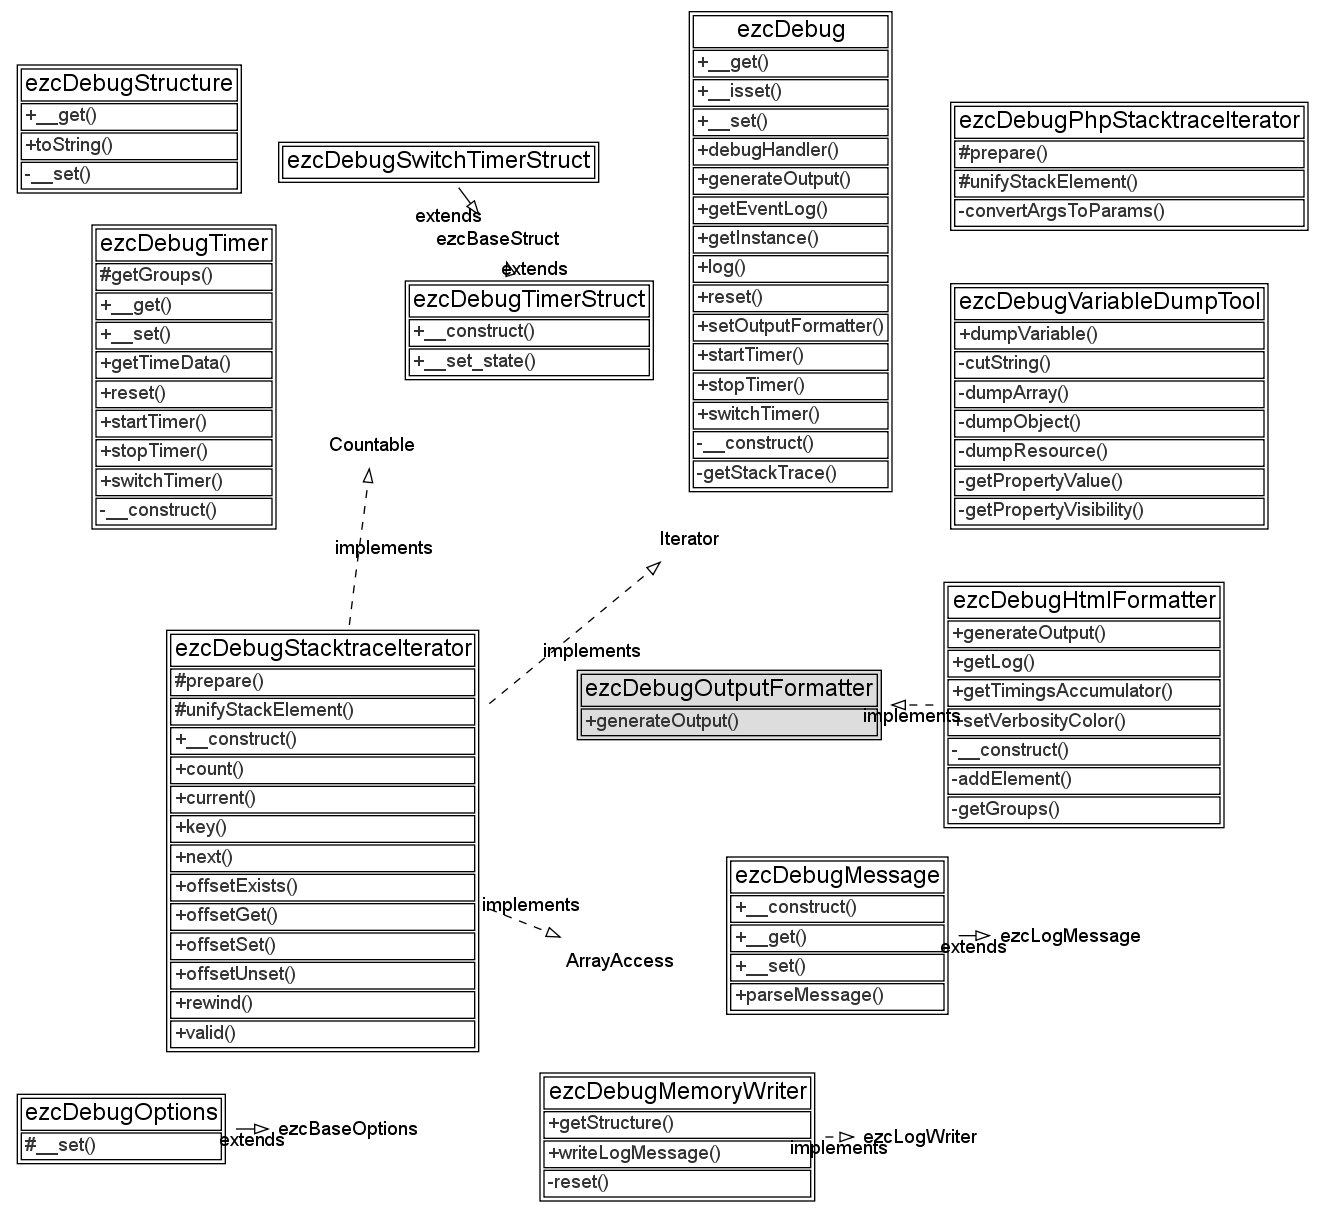
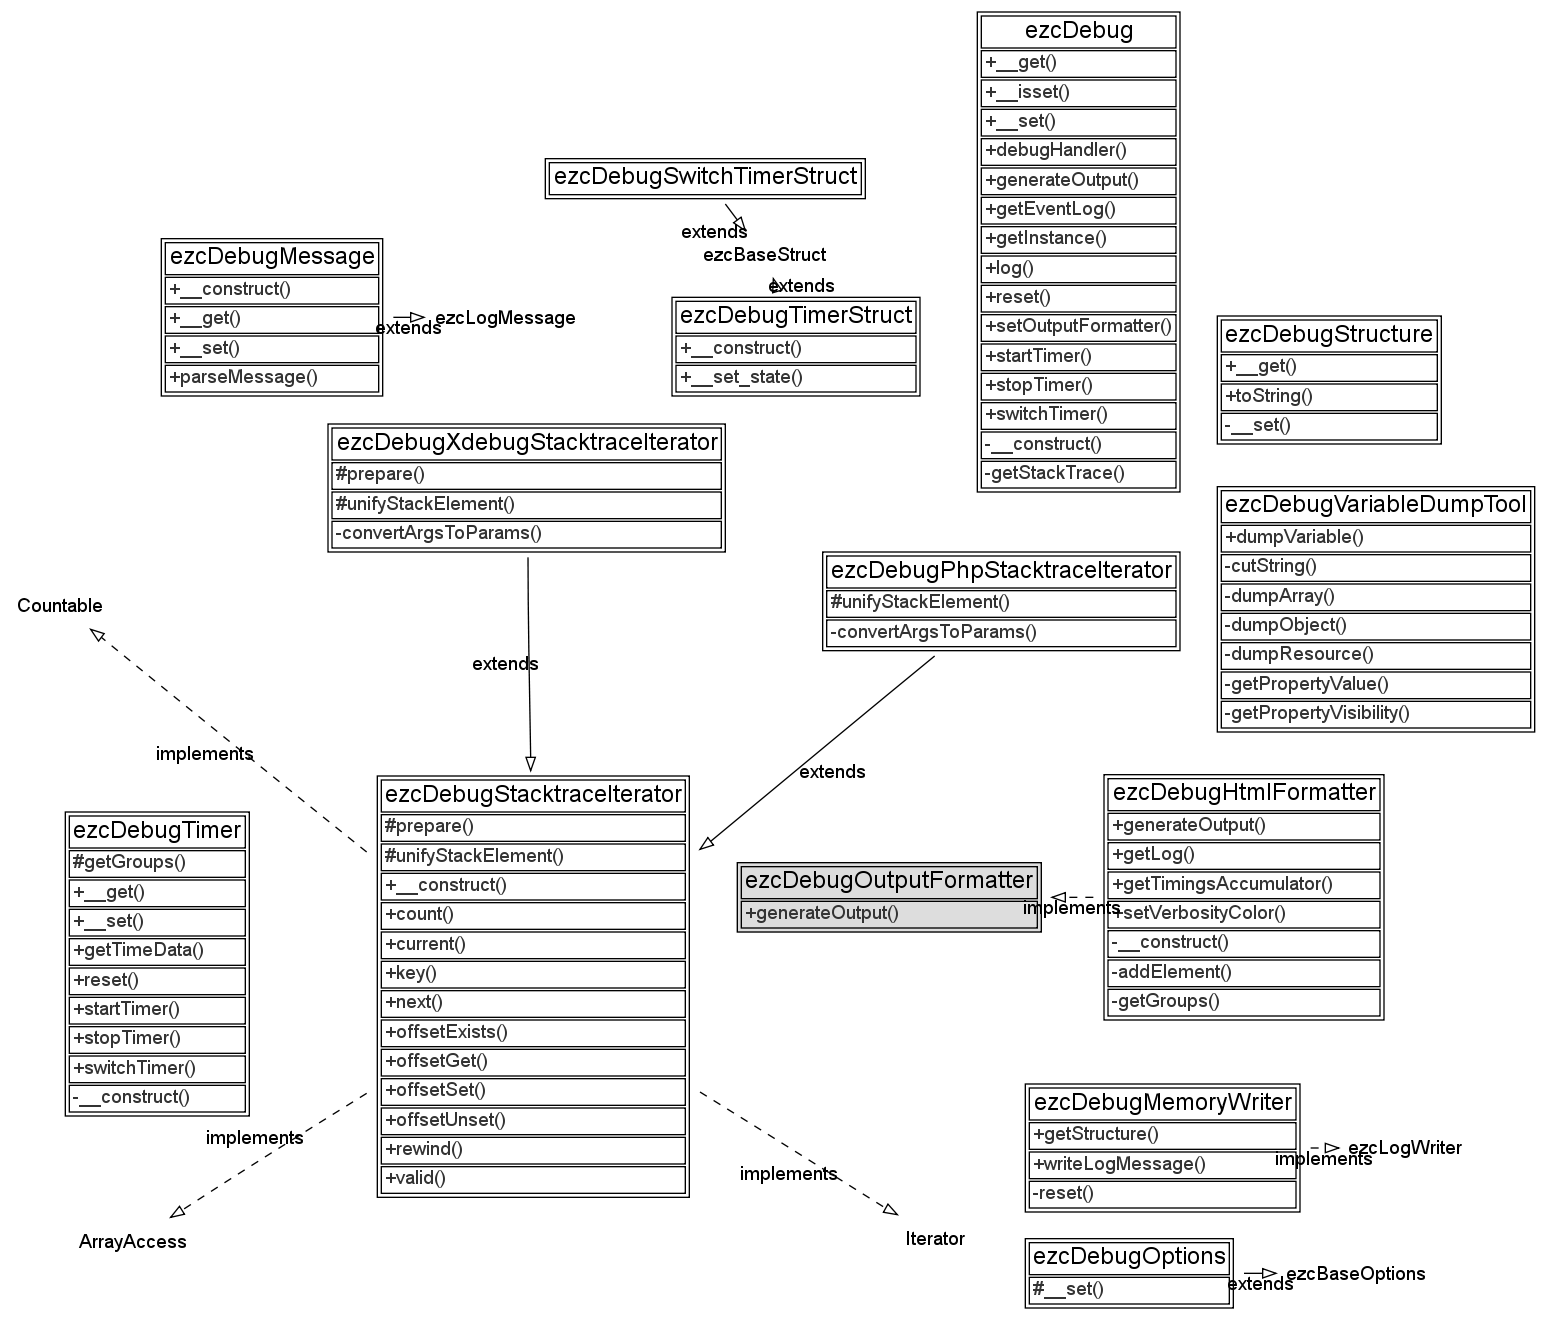
- Added ezcDebugXdebugStacktraceIterator.

Changed region(s): [[0.0, 0.0, 0.9902, 1.0], [0.0309, 0.4575, 0.0619, 0.488]]

diff --git a/src/stacktrace/xdebug_iterator.php b/src/stacktrace/xdebug_iterator.php
@@ -1,0 +1,101 @@
+<?php
+/**
+ * File containing the ezcDebugXdebugStacktraceIterator class.
+ *
+ * @package Debug
+ * @version //autogentag//
+ * @copyright Copyright (C) 2005-2008 eZ systems as. All rights reserved.
+ * @license http://ez.no/licenses/new_bsd New BSD License
+ */
+
+/**
+ * Iterator class to wrap around debug_backtrace() stack traces.
+ *
+ * This iterator class receives a stack trace generated by debug_backtrace()
+ * and unifies it as described in the {@link ezcDebugStacktraceIterator}
+ * interface.
+ * 
+ * @package Debug
+ * @version //autogen//
+ * @copyright Copyright (C) 2005-2007 eZ systems as. All rights reserved.
+ * @license http://ez.no/licenses/new_bsd New BSD License
+ */
+class ezcDebugXdebugStacktraceIterator extends ezcDebugStacktraceIterator
+{
+    /**
+     * Prepares the stack trace for being stored in the iterator instance.
+     *
+     * This method reverses the received stacktrace, which was created by the
+     * Xdebug ({@link http://xdebug.org}) debugging extension for PHP, to unify
+     * the stacktrace with the one created by {@link
+     * ezcDebugPhpStacktraceIterator}.
+     * 
+     * @param mixed $stackTrace 
+     * @return array The stack trace to store.
+     */
+    protected function prepare( $stackTrace, $removeElements )
+    {
+        return parent::prepare(
+            array_reverse( $stackTrace ),
+            $removeElements
+        );
+    }
+
+    /**
+     * Unifies a stack element for being returned to the formatter.
+     *
+     * This method ensures that an element of the stack trace conforms to the
+     * format expected by a {@link ezcDebugOutputFormatter}. The format is
+     * defined as follows:
+     *
+     * <code>
+     * array(
+     *      'file'      => '<fullpathtofile>',
+     *      'line'      => <lineno>,
+     *      'function'  => '<functionname>',
+     *      'class'     => '<classname>',
+     *      'params'    => array(
+     *          <param_no> => '<paramvalueinfo>',
+     *          <param_no> => '<paramvalueinfo>',
+     *          <param_no> => '<paramvalueinfo>',
+     *          ...
+     *      )
+     * )
+     * </code>
+     * 
+     * @param mixed $stackElement 
+     * @return array As described above.
+     */
+    protected function unifyStackElement( $stackElement )
+    {
+        $newParams = array();
+        foreach ( $stackElement['params'] as $param )
+        {
+            $newParams[] = $param;
+        }
+        $stackElement['params'] = $newParams;
+        
+        return $stackElement;
+    }
+
+    /**
+     * Returns the arguments of a stack element as string dumps.
+     *
+     * Returns an array corresponding to the 'params' key of a unified stack
+     * element, created from the 'args' ($args) element from an unified one.
+     * 
+     * @param array $args 
+     * @return array
+     */
+    private function convertArgsToParams( $args )
+    {
+        $params = array();
+        foreach ( $args as $arg )
+        {
+            $params[] = ezcDebugVariableDumpTool::dumpVariable( $arg );
+        }
+        return $params;
+    }
+}
+
+?>

diff --git a/src/debug_autoload.php b/src/debug_autoload.php
@@ -10,19 +10,20 @@
  */
 
 return array(
-    'ezcDebugException'             => 'Debug/exceptions/exception.php',
-    'ezcDebugOutputFormatter'       => 'Debug/interfaces/formatter.php',
-    'ezcDebug'                      => 'Debug/debug.php',
-    'ezcDebugHtmlFormatter'         => 'Debug/formatters/html_formatter.php',
-    'ezcDebugMemoryWriter'          => 'Debug/writers/memory_writer.php',
-    'ezcDebugMessage'               => 'Debug/debug_message.php',
-    'ezcDebugOptions'               => 'Debug/options.php',
-    'ezcDebugPhpStacktraceIterator' => 'Debug/stacktrace/php_iterator.php',
-    'ezcDebugStacktraceIterator'    => 'Debug/interfaces/stacktrace_iterator.php',
-    'ezcDebugStructure'             => 'Debug/structs/debug_structure.php',
-    'ezcDebugSwitchTimerStruct'     => 'Debug/structs/switch_timer.php',
-    'ezcDebugTimer'                 => 'Debug/debug_timer.php',
-    'ezcDebugTimerStruct'           => 'Debug/structs/timer.php',
-    'ezcDebugVariableDumpTool'      => 'Debug/tools/dump.php',
+    'ezcDebugException'                => 'Debug/exceptions/exception.php',
+    'ezcDebugOutputFormatter'          => 'Debug/interfaces/formatter.php',
+    'ezcDebugStacktraceIterator'       => 'Debug/interfaces/stacktrace_iterator.php',
+    'ezcDebug'                         => 'Debug/debug.php',
+    'ezcDebugHtmlFormatter'            => 'Debug/formatters/html_formatter.php',
+    'ezcDebugMemoryWriter'             => 'Debug/writers/memory_writer.php',
+    'ezcDebugMessage'                  => 'Debug/debug_message.php',
+    'ezcDebugOptions'                  => 'Debug/options.php',
+    'ezcDebugPhpStacktraceIterator'    => 'Debug/stacktrace/php_iterator.php',
+    'ezcDebugStructure'                => 'Debug/structs/debug_structure.php',
+    'ezcDebugSwitchTimerStruct'        => 'Debug/structs/switch_timer.php',
+    'ezcDebugTimer'                    => 'Debug/debug_timer.php',
+    'ezcDebugTimerStruct'              => 'Debug/structs/timer.php',
+    'ezcDebugVariableDumpTool'         => 'Debug/tools/dump.php',
+    'ezcDebugXdebugStacktraceIterator' => 'Debug/stacktrace/xdebug_iterator.php',
 );
 ?>

diff --git a/tests/data/xdebug_stacktrace_iterator_test__testSimpleTrace.php b/tests/data/xdebug_stacktrace_iterator_test__testSimpleTrace.php
@@ -1,0 +1,61 @@
+<?php
+
+return array (
+  0 => 
+  array (
+    'function' => 'getDeeperStackTrace',
+    'class' => 'ezcDebugXdebugStacktraceIteratorTest',
+    'file' => '/home/dotxp/dev/ez/ezcomponents/trunk/Debug/tests/xdebug_stacktrace_iterator_test.php',
+    'line' => 23,
+    'params' => 
+    array (
+      0 => '\'some string\'',
+      1 => 'array (0 => TRUE, 1 => 23, 2 => NULL)',
+    ),
+  ),
+  1 => 
+  array (
+    'function' => 'getStackTrace',
+    'class' => 'ezcDebugXdebugStacktraceIteratorTest',
+    'file' => '/home/dotxp/dev/ez/ezcomponents/trunk/Debug/tests/xdebug_stacktrace_iterator_test.php',
+    'line' => 48,
+    'params' => 
+    array (
+      0 => '\'some string\'',
+      1 => 'array (0 => TRUE, 1 => 23, 2 => NULL)',
+    ),
+  ),
+  2 => 
+  array (
+    'function' => 'testIterateTrace',
+    'class' => 'ezcDebugXdebugStacktraceIteratorTest',
+    'file' => '/home/dotxp/dev/ez/ezcomponents/trunk/Debug/tests/xdebug_stacktrace_iterator_test.php',
+    'line' => 0,
+    'params' => 
+    array (
+    ),
+  ),
+  3 => 
+  array (
+    'function' => 'invoke',
+    'class' => 'ReflectionMethod',
+    'file' => '/home/dotxp/dev/PHP/phpunit/branches/release/3.2/PHPUnit/Framework/TestCase.php',
+    'line' => 449,
+    'params' => 
+    array (
+      0 => 'class ezcDebugXdebugStacktraceIteratorTest { private $tempDir = NULL; protected $backupGlobals = TRUE; protected $data = array (); protected $dataName = \'\'; protected $expectedException = NULL; protected $expectedExceptionMessage = \'\'; protected $sharedFixture = NULL; protected $name = \'testIterateTrace\'; protected $exception = NULL; protected $iniSettings = array (); protected $locale = array (); protected $mockObjects = array () }',
+    ),
+  ),
+  4 => 
+  array (
+    'function' => 'runTest',
+    'class' => 'PHPUnit_Framework_TestCase',
+    'file' => '/home/dotxp/dev/PHP/phpunit/branches/release/3.2/PHPUnit/Framework/TestCase.php',
+    'line' => 376,
+    'params' => 
+    array (
+    ),
+  ),
+);
+
+?>

diff --git a/tests/xdebug_stacktrace_iterator_test.php b/tests/xdebug_stacktrace_iterator_test.php
@@ -1,0 +1,80 @@
+<?php
+/**
+ * @copyright Copyright (C) 2005-2008 eZ systems as. All rights reserved.
+ * @license http://ez.no/licenses/new_bsd New BSD License
+ * @version //autogentag//
+ * @filesource
+ * @package Debug
+ * @subpackage Tests
+ */
+
+require_once 'classes/debug_test_dump_extended_object.php';
+
+/**
+ * Test suite for the ezcDebugOptions class.
+ *
+ * @package Debug
+ * @subpackage Tests
+ */
+class ezcDebugXdebugStacktraceIteratorTest extends ezcTestCase
+{
+    private function getStackTrace( $foo, $bar = null )
+    {
+        return $this->getDeeperStackTrace( $foo, $bar );
+    }
+
+    private function getDeeperStackTrace( $foo, $bar )
+    {
+        return xdebug_get_function_stack();
+    }
+
+    public static function suite()
+    {
+        return new PHPUnit_Framework_TestSuite( __CLASS__ );
+    }
+
+    protected function setup()
+    {
+        if ( !extension_loaded( 'xdebug' ) )
+        {
+            $this->markTestSkipped( 'Only run when Xdebug is available.' );
+        }
+    }
+
+    public function testIterateTrace()
+    {
+        $opts = new ezcDebugOptions();
+        $itr = new ezcDebugXdebugStacktraceIterator(
+            $this->getStackTrace( 'some string', array( true, 23, null ) ),
+            0,
+            $opts
+        );
+
+        $res = require 'data/xdebug_stacktrace_iterator_test__testSimpleTrace.php';
+        foreach ( $itr as $key => $value )
+        {
+            $this->assertEquals(
+                $res[$key],
+                $value,
+                "Incorrect stack element $key."
+            );
+        }
+    }
+
+    public function testCountTrace()
+    {
+        $opts = new ezcDebugOptions();
+        $itr = new ezcDebugXdebugStacktraceIterator(
+            $this->getStackTrace( 'some string', array( true, 23, null ) ),
+            0,
+            $opts
+        );
+        
+        $this->assertEquals(
+            5,
+            count( $itr )
+        );
+    }
+}
+
+?>

diff --git a/tests/suite.php b/tests/suite.php
@@ -20,6 +20,7 @@ require_once "writers/memory_writer_test.php";
 require_once "formatters/html_formatter_test.php";
 require_once "variable_dump_tool_test.php";
 require_once "php_stacktrace_iterator_test.php";
+require_once "xdebug_stacktrace_iterator_test.php";
 
 /**
  * @package Debug
@@ -40,6 +41,7 @@ class ezcDebugSuite extends PHPUnit_Framework_TestSuite
 		$this->addTest( ezcDebugHtmlFormatterTest::suite() );
 		$this->addTest( ezcDebugVariableDumpToolTest::suite() );
 		$this->addTest( ezcDebugPhpStacktraceIteratorTest::suite() );
+		$this->addTest( ezcDebugXdebugStacktraceIteratorTest::suite() );
 	}
 
     public static function suite()

diff --git a/src/debug.php b/src/debug.php
@@ -329,7 +329,6 @@ class ezcDebug
 
     private function getStackTrace()
     {
-        $stackTrace = array();
         if ( extension_loaded( 'xdebug' ) )
         {
             return new ezcDebugXdebugStacktraceIterator(
